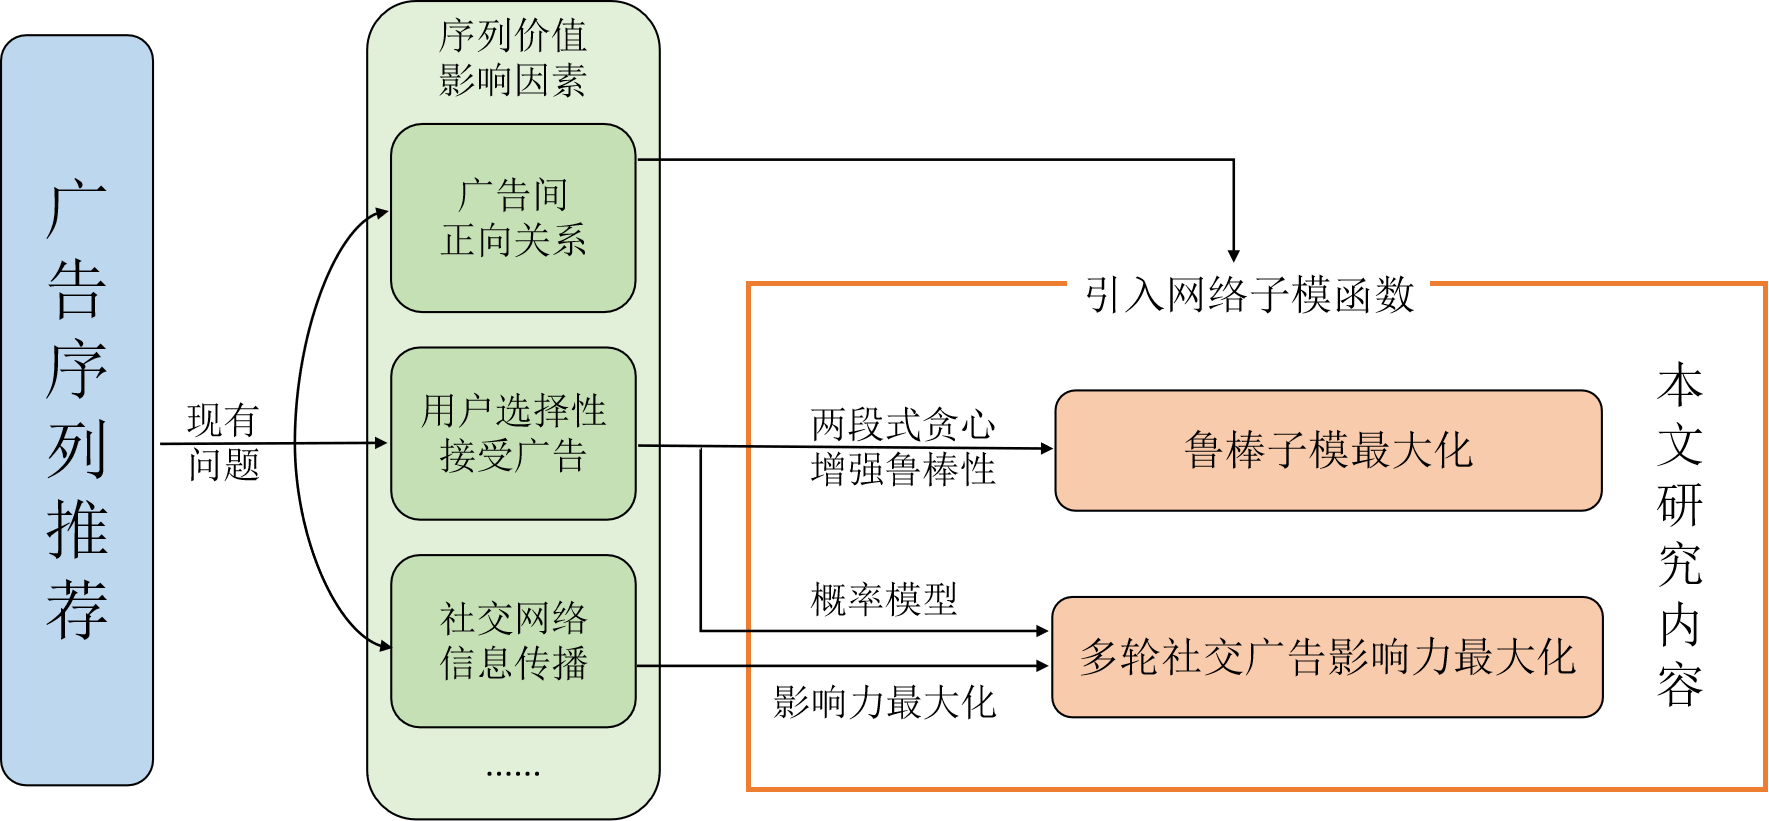
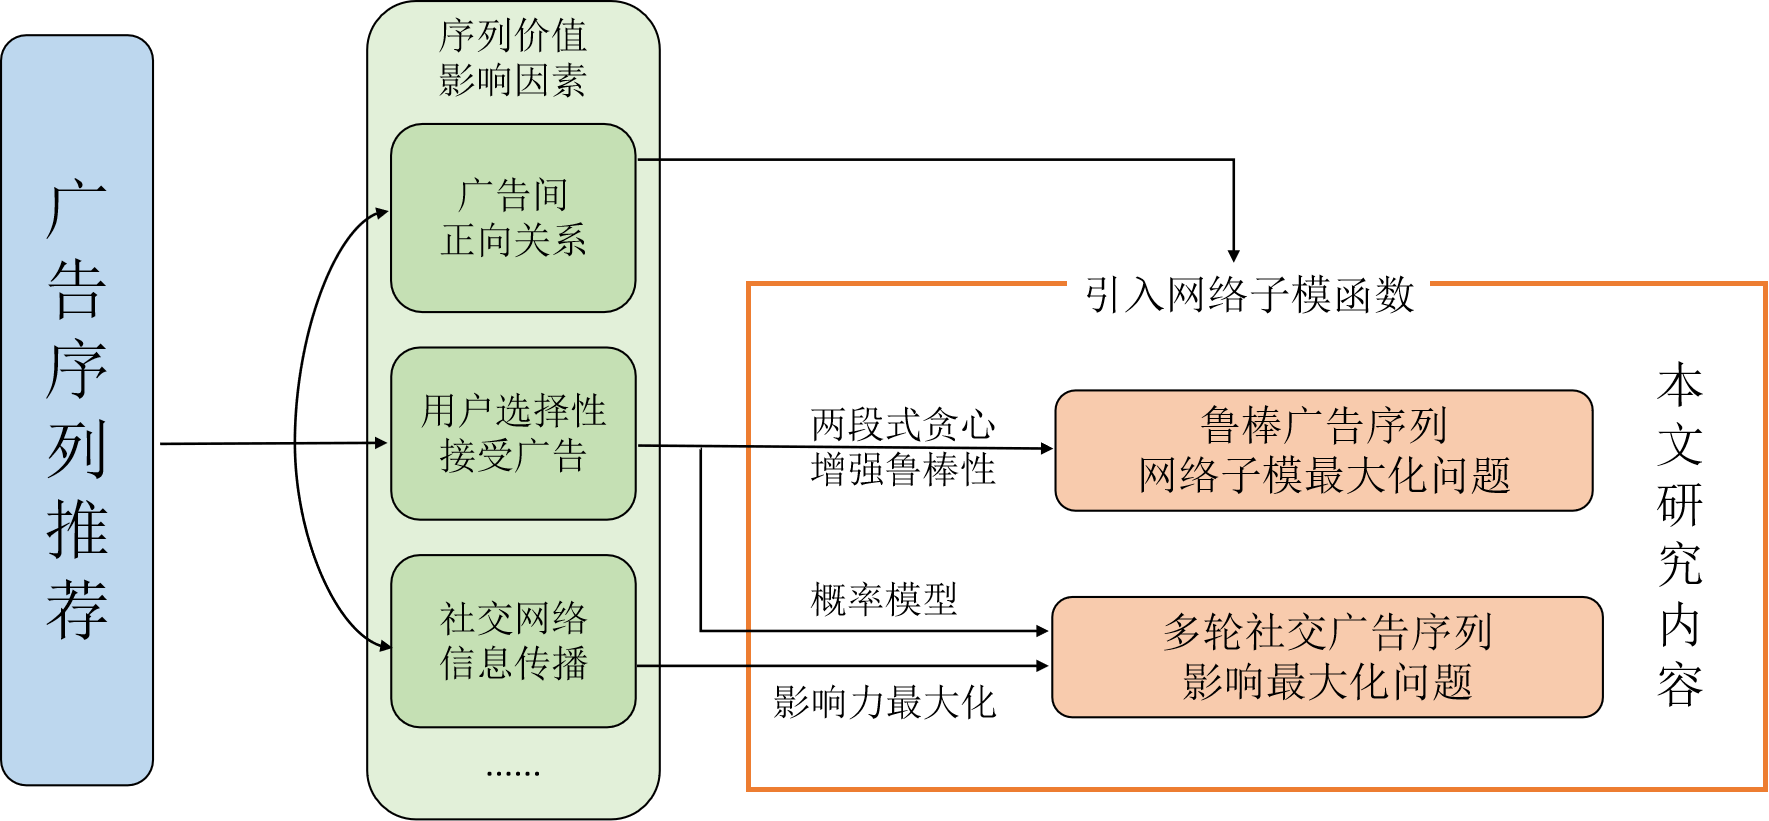
v5盲

diff --git a/body/graduate/content.tex b/body/graduate/content.tex
@@ -7,9 +7,9 @@
 
 \textbf{现有研究忽视了广告间正向关系对序列价值的影响}。研究表明，用户在看到一个广告之前接受的信息会对其对该广告的接受程度产生影响\cite{loda2005sequence}。用户在看到某个广告之前所接受的信息中，最容易获得和干预的就是平台之前向用户推荐过的其他广告。因此，如果能够充分利用广告之间的正向信息关联，为用户打造一个具有更强相关性的广告序列，不仅可以提升用户的浏览体验，还能增加用户对广告的接受程度。Tschiatschek等人\cite{tschiatschek2017selecting}和Mitrovic等人\cite{mitrovic2018submodularity}的研究在集合函数最大化的基础上加入了对边价值的考虑，提出了序列函数最大化问题并给出了序列贪心算法。如果将序列函数设定为广告的价值，通过序列贪心算法可以在考虑广告之间正向关系的情况下获得一个最大价值广告序列的近似解，近似比与网络的结构有关。
 
-在集合函数最大化和序列函数最大化问题中，子模性都是一个极为重要的性质。它可以简单理解为一种边际收益递减的特性。更具体地说：如果对于任意两个集合$A\subseteq B \subseteq V$和一个元素$v\in V\backslash B$，集合函数$f: 2^V \to \mathbb{R}$满足$f(A\cup v) - f(A) \ge f(B\cup v) -f(B)$，那么称集合函数$f$具有子模型。这一性质最初由Nemhauser\cite{nemhauser1978analysis}等人归纳总结，并证明了其应用于贪心策略时$1-1/e$的近似比。后与单调性一起被广泛应用于集合函数的最大化或最小化问题中\cite{nemhauser1978best,khuller1999budgeted}。而在序列函数最大化的工作中\cite{tschiatschek2017selecting,mitrovic2018submodularity}略有不同的是，序列函数对于序列的生成点集（元素集）并不需要具有子模性，而是需要对序列的生成边集具有子模性。这种性质在此前并未被明确的命名，在本文中，我们将这种关于序列的函数对序列的生成边集具有子模性的性质成为\textbf{网络子模}。 
+在集合函数最大化和序列函数最大化问题中，子模性都是一个极为重要的性质。它可以简单理解为一种边际收益递减的特性。更具体地说：如果对于任意两个集合$A\subseteq B \subseteq V$和一个元素$v\in V\backslash B$，集合函数$f: 2^V \to \mathbb{R}$满足$f(A\cup v) - f(A) \ge f(B\cup v) -f(B)$，那么称集合函数$f$具有子模型。这一性质最初由Nemhauser\cite{nemhauser1978analysis}等人归纳总结，并证明了其应用于贪心策略时$1-1/e$的近似比。后与单调性一起被广泛应用于集合函数的最大化或最小化问题中\cite{nemhauser1978best,khuller1999budgeted}。而在序列函数最大化的工作中\cite{tschiatschek2017selecting,mitrovic2018submodularity}略有不同的是，序列函数对于序列的生成点集（元素集）并不需要具有子模性，而是需要对序列的生成边集具有子模性。这种性质在此前并未被明确的命名，在本文中，我们将这种关于序列的函数对序列的生成边集具有子模性的性质称为\textbf{网络子模}。 
 
-\textbf{用户拒绝部分广告可能会使原有广告序列价值急剧下降。}在实际应用时，仍然需要考虑到用户可能不会接受序列中的所有广告。在考虑广告之间正向关系的序列广告推荐中，由于序列中的广告之间存在额外的关系收益，一个广告被移除所带来的影响可能不仅仅局限于这个广告本身。其实，它可能会影响到所有与之相连的广告，进而对整个序列的价值造成巨大影响。因此，在设计广告推荐策略时，我们不仅要考虑序列的整体价值，还需要特别关注广告序列的\textbf{鲁棒性}。
+\textbf{由序列贪心方法得到的广告序列往往缺乏鲁棒性}。在实际应用中，用户很可能会不接受序列中的部分广告，导致序列价值急剧减少。在考虑广告之间正向关系的序列广告推荐中，由于序列中的广告之间存在额外的关系收益，一个广告被移除所带来的影响可能不仅仅局限于这个广告本身。它可能会影响到所有与之相连的广告，进而对整个序列的价值造成巨大影响。因此，在设计广告推荐策略时，我们不仅要考虑序列的整体价值，还需要特别关注广告序列的鲁棒性。
 
 \begin{figure}[th]
     \centering
